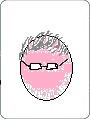
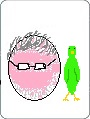
la garbi va meglio, ma da molti problemi. anche longa da problemi.

Changed region(s): [[0.0667, 0.2521, 0.9111, 0.8571]]

diff --git a/src/aa/GamePanel.java b/src/aa/GamePanel.java
@@ -40,19 +40,11 @@ public class GamePanel extends javax.swing.JPanel {
     Card lastCardUp;
     public GamePanel() {
         initComponents();
-        
         this.descriptionsMatrix = createDescriptionMatrix();
         this.phMatrix = createPhMatrix();
         this.cardsMatrix = createCardsMatrix();
-
-        
-        
         setBackground(Costants.mainColor);
-        fillPh();
-        
-        
-
-        
+        fillPh();   
     }
 
     public JPanel[][] createPhMatrix(){
@@ -179,7 +171,7 @@ public class GamePanel extends javax.swing.JPanel {
             }      
         }
     }
-
+    
     public void shuffleCards(){
         shuffleArray(this.cardsMatrix);
     }
@@ -239,29 +231,57 @@ public class GamePanel extends javax.swing.JPanel {
                     c.setBorder(new LineBorder(Costants.secondaryColor, 2));
                     p.add(c);
                 }
-                
-                
-                
                 counter++;
             }      
         }
-        
-        for (int i=0; i<2;i++){
-            int rnd = new Random().nextInt(40);
             JPanel p1;
+            int rnd = new Random().nextInt(40);
             Card c1 = cardsMatrix[rnd];
-            while(c1.id == 2){
+            while(c1.id % 20 == 2){
                 rnd = new Random().nextInt(40);
                 c1 = cardsMatrix[rnd];
             }
-            p1 = phMatrix[4-rnd%5][rnd%8];
-            emptyPh(p1);
-            c1.setPreferredSize(new Dimension(90, 119));
-            c1.setBounds(0, 0, 90, 119);
-            c1.setBorder(new LineBorder(Costants.secondaryColor, 2));
-            p1.add(c1);
-        }
+                p1 = phMatrix[(int)(rnd/8)][rnd%8];
+                emptyPh(p1);
+                c1.setPreferredSize(new Dimension(90, 119));
+                c1.setBounds(0, 0, 90, 119);
+                c1.setBorder(new LineBorder(Costants.secondaryColor, 2));
+                p1.add(c1);
+                
+            JPanel p2;
+            int rnd2 = new Random().nextInt(40);
+            Card c2 = cardsMatrix[rnd];
+            while(c2.id % 20 == 2){
+                rnd2 = new Random().nextInt(40);
+                c2 = cardsMatrix[rnd];
+            }
+            while(rnd2 == rnd){
+                rnd2 = new Random().nextInt(40);
+                c2 = cardsMatrix[rnd];
+            }
+                p2 = phMatrix[(int)(rnd/8)][rnd%8];
+                emptyPh(p2);
+                c2.setPreferredSize(new Dimension(90, 119));
+                c2.setBounds(0, 0, 90, 119);
+                c2.setBorder(new LineBorder(Costants.secondaryColor, 2));
+                p2.add(c2);
 
+    }
+    
+    public void PattyUnlt(){
+        int counter = 0;
+        for (int i=0; i<5; i++){
+            for (int j=0; j<8; j++){
+                JPanel p = phMatrix[i][j];
+                emptyPh(p);
+                Card c =  cardsMatrix[counter];
+                c.setPreferredSize(new Dimension(90, 119));
+                c.setBorder(new LineBorder(Costants.secondaryColor, 0));
+                c.setBounds(0, 0, 90, 119);
+                p.add(c);
+                counter++;
+            }      
+        }
     }
     
     public void emptyPh(JPanel p){
@@ -273,6 +293,7 @@ public class GamePanel extends javax.swing.JPanel {
                     p.repaint();
                     
     }
+    
     public void turnDownAll(){
         for (int i=0; i<40; i++){
             Card c = cardsMatrix[i];
@@ -292,6 +313,7 @@ public class GamePanel extends javax.swing.JPanel {
       ar[i] = a;
     }
   }
+ 
    public void changeLastCardUp(Card card){
        this.lastCardUp = card;
    }

diff --git a/src/aa/Card.java b/src/aa/Card.java
@@ -105,6 +105,10 @@ public class Card extends javax.swing.JPanel implements ActionListener {
     
     public void superPowerWrongCouple(){
         Card c = Game.gp.lastCardUp;
+        //garbesi 2
+        if (c.id % 20 == 2){
+            Game.gp.PattyUnlt();
+        }
         //artioli 3
         if (c.id % 20 == 3){
             Game.gp.artioliFill();
@@ -113,14 +117,12 @@ public class Card extends javax.swing.JPanel implements ActionListener {
         if (c.id % 20 == 4){
             Game.gp.longaFill();
         }
-        
         //Tancredi 7
         if (c.id % 20 == 7){
             if (Game.mp.tancreCounter<1){
                 Game.numeroMosse--;
                 Game.mp.playerTurn -= 1;
                 Game.mp.tancreCounter++;
-                System.out.println("aaaa");
             }else{
                 Game.mp.tancreCounter = 0;
             }
@@ -139,6 +141,10 @@ public class Card extends javax.swing.JPanel implements ActionListener {
                 }
  
             }
+        }
+        //garbesi 2
+        if (c.id % 20 == 2){
+            Game.gp.PattyUnlt();
         }
         //muratori 6
         if (c.id % 20 == 6){
@@ -173,7 +179,6 @@ public class Card extends javax.swing.JPanel implements ActionListener {
                 i.points-=ptr;
             }
         }
-       
         //Parlato 12
         //Morelli 17
         
